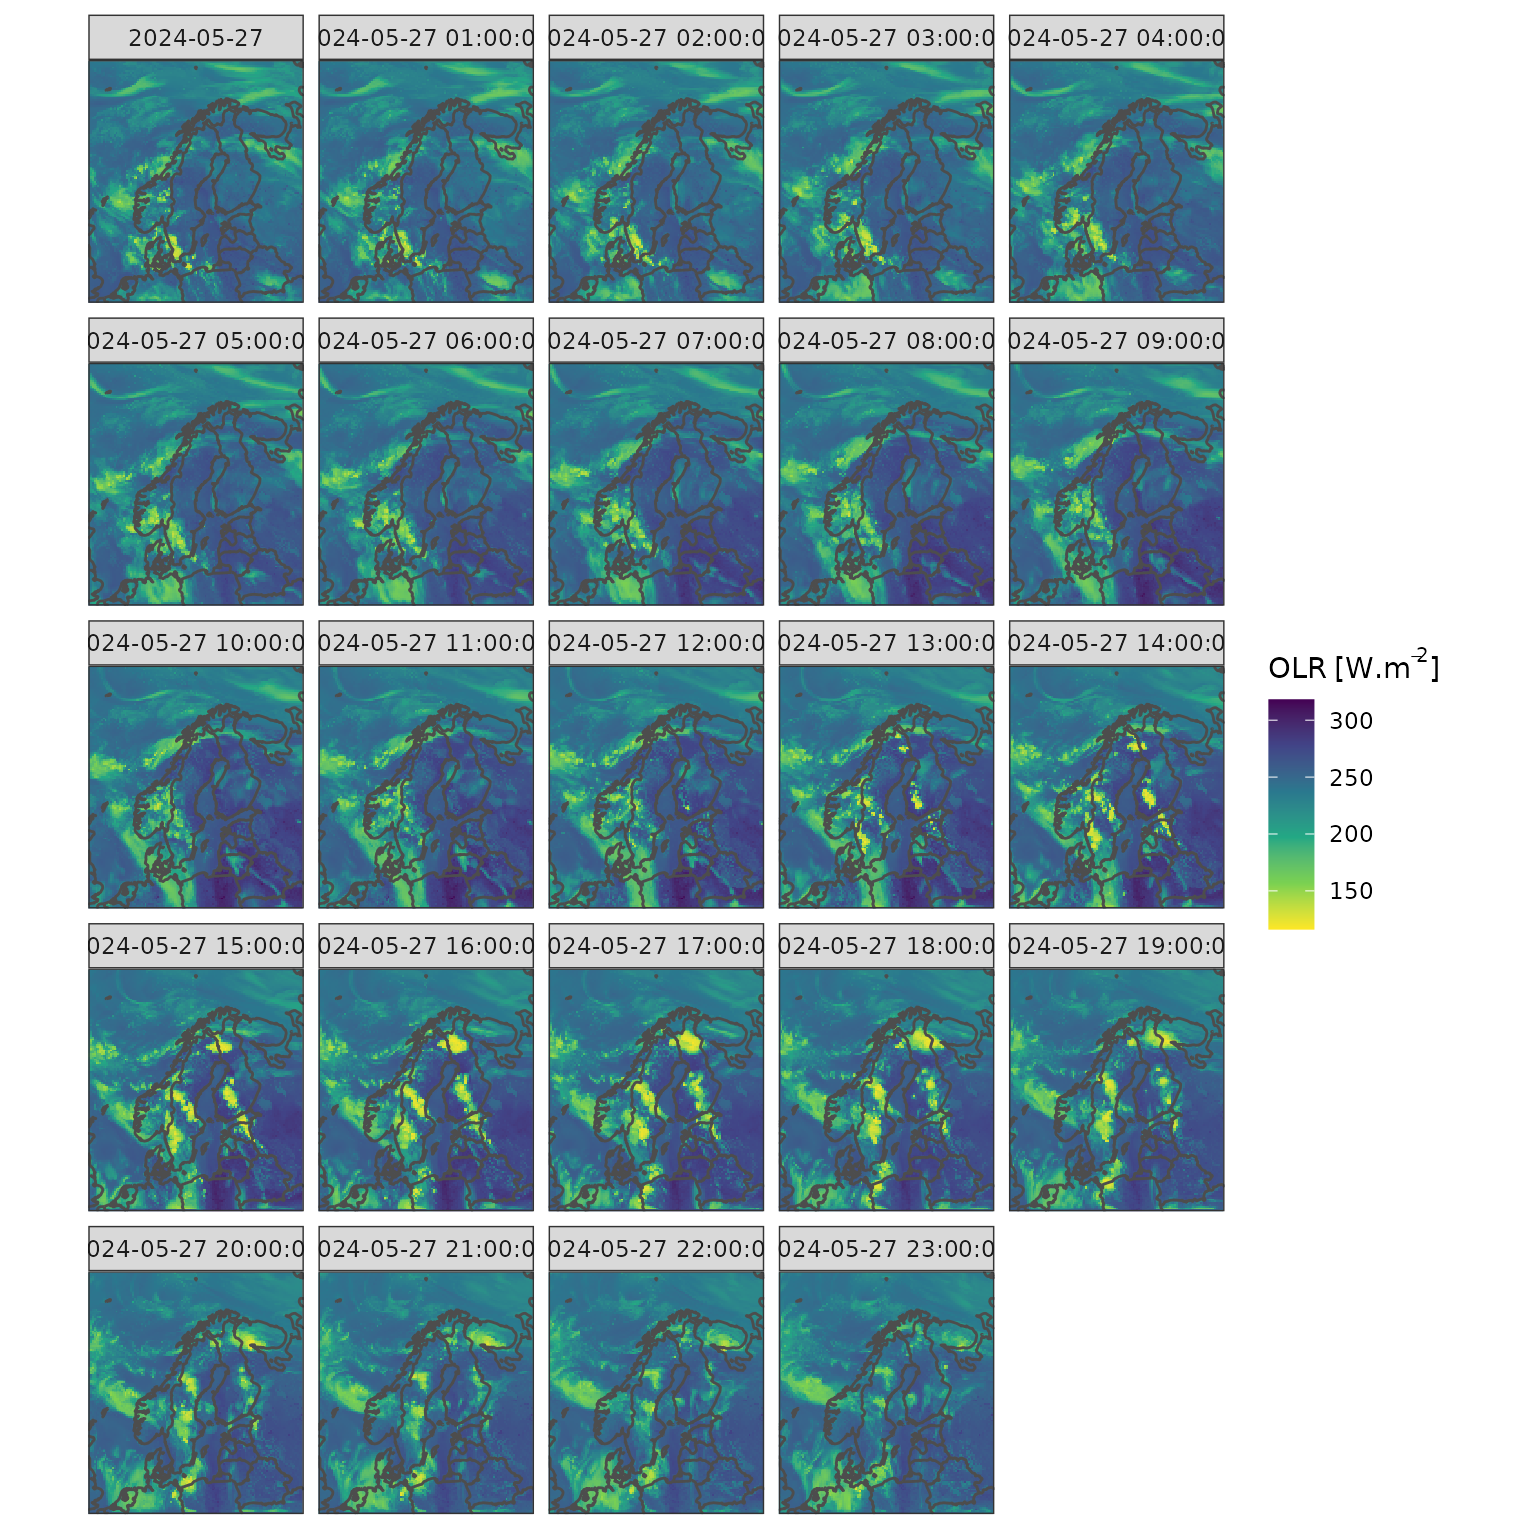
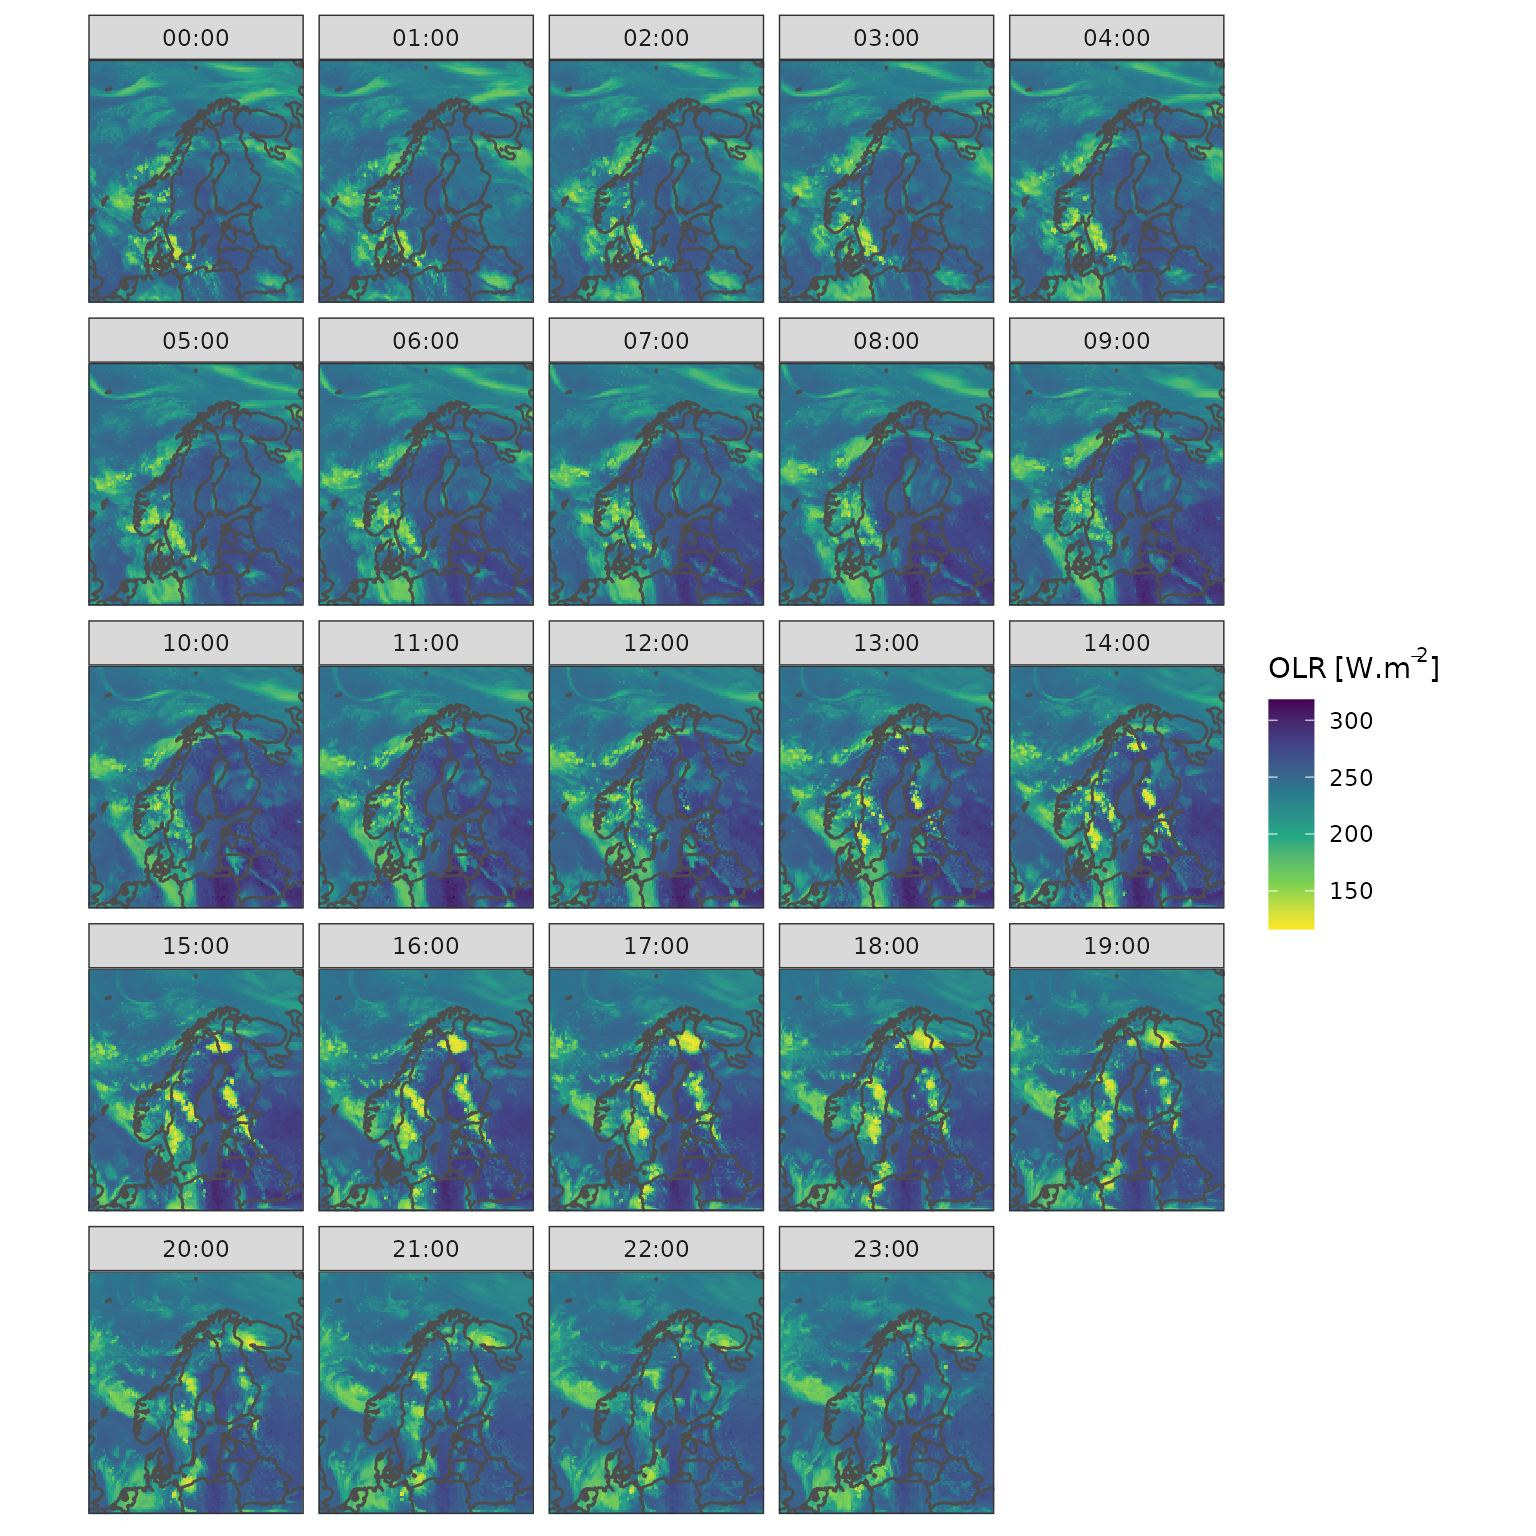
Rebuid pkgdown site

diff --git a/docs/articles/tracking_model_OLR.html b/docs/articles/tracking_model_OLR.html
@@ -157,7 +157,7 @@ time step.</p>
 <span>    upscale_factor <span class="op">=</span> <span class="fl">8</span>, upscale_method <span class="op">=</span> <span class="st">"downsample"</span></span>
 <span>  <span class="op">)</span> <span class="op">+</span> </span>
 <span>  <span class="fu"><a href="https://ggplot2.tidyverse.org/reference/geom_path.html" class="external-link">geom_path</a></span><span class="op">(</span><span class="fu"><a href="https://ggplot2.tidyverse.org/reference/aes.html" class="external-link">aes</a></span><span class="op">(</span><span class="va">x</span>, <span class="va">y</span><span class="op">)</span>, <span class="va">countries</span>, colour <span class="op">=</span> <span class="st">"grey30"</span><span class="op">)</span> <span class="op">+</span></span>
-<span>  <span class="fu"><a href="https://ggplot2.tidyverse.org/reference/facet_wrap.html" class="external-link">facet_wrap</a></span><span class="op">(</span><span class="op">~</span><span class="va">valid_dttm</span><span class="op">)</span> <span class="op">+</span></span>
+<span>  <span class="fu"><a href="https://ggplot2.tidyverse.org/reference/facet_wrap.html" class="external-link">facet_wrap</a></span><span class="op">(</span><span class="op">~</span><span class="fu"><a href="https://rdrr.io/r/base/format.html" class="external-link">format</a></span><span class="op">(</span><span class="va">valid_dttm</span>, <span class="st">"%H:%M"</span><span class="op">)</span><span class="op">)</span> <span class="op">+</span></span>
 <span>  <span class="fu"><a href="https://ggplot2.tidyverse.org/reference/scale_viridis.html" class="external-link">scale_fill_viridis_c</a></span><span class="op">(</span><span class="fu"><a href="https://rdrr.io/r/base/bquote.html" class="external-link">bquote</a></span><span class="op">(</span><span class="va">OLR</span><span class="op">~</span><span class="st">"["</span><span class="op">*</span><span class="va">W.m</span><span class="op">^</span><span class="op">{</span><span class="op">-</span><span class="fl">2</span><span class="op">}</span><span class="op">*</span><span class="st">"]"</span><span class="op">)</span>, direction <span class="op">=</span> <span class="op">-</span><span class="fl">1</span><span class="op">)</span> <span class="op">+</span> </span>
 <span>  <span class="fu"><a href="https://ggplot2.tidyverse.org/reference/coord_fixed.html" class="external-link">coord_equal</a></span><span class="op">(</span>expand <span class="op">=</span> <span class="cn">FALSE</span><span class="op">)</span> <span class="op">+</span></span>
 <span>  <span class="fu">theme_harp_map</span><span class="op">(</span><span class="op">)</span></span></code></pre></div>
@@ -173,7 +173,7 @@ adding limits to the colour scale.</p>
 <span>    upscale_factor <span class="op">=</span> <span class="fl">8</span>, upscale_method <span class="op">=</span> <span class="st">"downsample"</span></span>
 <span>  <span class="op">)</span> <span class="op">+</span> </span>
 <span>  <span class="fu"><a href="https://ggplot2.tidyverse.org/reference/geom_path.html" class="external-link">geom_path</a></span><span class="op">(</span><span class="fu"><a href="https://ggplot2.tidyverse.org/reference/aes.html" class="external-link">aes</a></span><span class="op">(</span><span class="va">x</span>, <span class="va">y</span><span class="op">)</span>, <span class="va">countries</span>, colour <span class="op">=</span> <span class="st">"grey30"</span><span class="op">)</span> <span class="op">+</span></span>
-<span>  <span class="fu"><a href="https://ggplot2.tidyverse.org/reference/facet_wrap.html" class="external-link">facet_wrap</a></span><span class="op">(</span><span class="op">~</span><span class="va">valid_dttm</span><span class="op">)</span> <span class="op">+</span></span>
+<span>  <span class="fu"><a href="https://ggplot2.tidyverse.org/reference/facet_wrap.html" class="external-link">facet_wrap</a></span><span class="op">(</span><span class="op">~</span><span class="fu"><a href="https://rdrr.io/r/base/format.html" class="external-link">format</a></span><span class="op">(</span><span class="va">valid_dttm</span>, <span class="st">"%H:%M"</span><span class="op">)</span><span class="op">)</span> <span class="op">+</span></span>
 <span>  <span class="fu"><a href="https://ggplot2.tidyverse.org/reference/scale_viridis.html" class="external-link">scale_fill_viridis_c</a></span><span class="op">(</span></span>
 <span>    <span class="fu"><a href="https://rdrr.io/r/base/bquote.html" class="external-link">bquote</a></span><span class="op">(</span><span class="va">OLR</span><span class="op">~</span><span class="st">"["</span><span class="op">*</span><span class="va">W.m</span><span class="op">^</span><span class="op">{</span><span class="op">-</span><span class="fl">2</span><span class="op">}</span><span class="op">*</span><span class="st">"]"</span><span class="op">)</span>, direction <span class="op">=</span> <span class="op">-</span><span class="fl">1</span>, </span>
 <span>    limits <span class="op">=</span> <span class="fu"><a href="https://rdrr.io/r/base/c.html" class="external-link">c</a></span><span class="op">(</span><span class="cn">NA</span>, <span class="fl">180</span><span class="op">)</span>, na.value <span class="op">=</span> <span class="st">"white"</span></span>
@@ -204,7 +204,7 @@ time.</p>
 <code class="sourceCode R"><span><span class="fu"><a href="https://ggplot2.tidyverse.org/reference/ggplot.html" class="external-link">ggplot</a></span><span class="op">(</span><span class="va">features</span>, <span class="fu"><a href="https://ggplot2.tidyverse.org/reference/aes.html" class="external-link">aes</a></span><span class="op">(</span><span class="va">projection_x_coordinate</span>, <span class="va">projection_y_coordinate</span><span class="op">)</span><span class="op">)</span> <span class="op">+</span></span>
 <span>  <span class="fu"><a href="https://ggplot2.tidyverse.org/reference/geom_path.html" class="external-link">geom_path</a></span><span class="op">(</span><span class="fu"><a href="https://ggplot2.tidyverse.org/reference/aes.html" class="external-link">aes</a></span><span class="op">(</span><span class="va">x</span>, <span class="va">y</span><span class="op">)</span>, <span class="va">countries</span>, colour <span class="op">=</span> <span class="st">"grey30"</span><span class="op">)</span> <span class="op">+</span> </span>
 <span>  <span class="fu"><a href="https://ggplot2.tidyverse.org/reference/geom_point.html" class="external-link">geom_point</a></span><span class="op">(</span><span class="fu"><a href="https://ggplot2.tidyverse.org/reference/aes.html" class="external-link">aes</a></span><span class="op">(</span>colour <span class="op">=</span> <span class="fu"><a href="https://rdrr.io/r/base/factor.html" class="external-link">factor</a></span><span class="op">(</span><span class="va">threshold_value</span><span class="op">)</span><span class="op">)</span><span class="op">)</span> <span class="op">+</span></span>
-<span>  <span class="fu"><a href="https://ggplot2.tidyverse.org/reference/facet_wrap.html" class="external-link">facet_wrap</a></span><span class="op">(</span><span class="op">~</span><span class="va">timestr</span><span class="op">)</span> <span class="op">+</span></span>
+<span>  <span class="fu"><a href="https://ggplot2.tidyverse.org/reference/facet_wrap.html" class="external-link">facet_wrap</a></span><span class="op">(</span><span class="op">~</span><span class="fu"><a href="https://rdrr.io/r/base/format.html" class="external-link">format</a></span><span class="op">(</span><span class="fu"><a href="https://rdrr.io/r/base/as.POSIXlt.html" class="external-link">as.POSIXct</a></span><span class="op">(</span><span class="va">timestr</span>, tz <span class="op">=</span> <span class="st">"UTC"</span><span class="op">)</span>, <span class="st">"%H:%M"</span><span class="op">)</span><span class="op">)</span> <span class="op">+</span></span>
 <span>  <span class="fu"><a href="https://ggplot2.tidyverse.org/reference/coord_fixed.html" class="external-link">coord_equal</a></span><span class="op">(</span>expand <span class="op">=</span> <span class="cn">FALSE</span><span class="op">)</span> <span class="op">+</span> </span>
 <span>  <span class="fu">theme_harp_map</span><span class="op">(</span><span class="op">)</span> <span class="op">+</span> </span>
 <span>  <span class="fu"><a href="https://ggplot2.tidyverse.org/reference/labs.html" class="external-link">labs</a></span><span class="op">(</span>colour <span class="op">=</span> <span class="fu"><a href="https://rdrr.io/r/base/bquote.html" class="external-link">bquote</a></span><span class="op">(</span><span class="fu">atop</span><span class="op">(</span><span class="va">OLR</span><span class="op">~</span><span class="va">Threshold</span>,<span class="st">"["</span><span class="op">*</span><span class="va">W.m</span><span class="op">^</span><span class="op">{</span><span class="op">-</span><span class="fl">2</span><span class="op">}</span><span class="op">*</span><span class="st">"]"</span><span class="op">)</span><span class="op">)</span><span class="op">)</span></span></code></pre></div>

diff --git a/docs/articles/tracking_seviri_brightness_temp.html b/docs/articles/tracking_seviri_brightness_temp.html
@@ -208,7 +208,7 @@ thresholds of 250, 240, 230 and 220 K.</p>
 <span><span class="fu"><a href="https://ggplot2.tidyverse.org/reference/ggplot.html" class="external-link">ggplot</a></span><span class="op">(</span><span class="va">features</span>, <span class="fu"><a href="https://ggplot2.tidyverse.org/reference/aes.html" class="external-link">aes</a></span><span class="op">(</span><span class="va">longitude</span>, <span class="va">latitude</span><span class="op">)</span><span class="op">)</span> <span class="op">+</span></span>
 <span>  <span class="fu"><a href="https://ggplot2.tidyverse.org/reference/geom_path.html" class="external-link">geom_path</a></span><span class="op">(</span><span class="fu"><a href="https://ggplot2.tidyverse.org/reference/aes.html" class="external-link">aes</a></span><span class="op">(</span><span class="va">x</span>, <span class="va">y</span><span class="op">)</span>, <span class="va">countries</span>, colour <span class="op">=</span> <span class="st">"grey30"</span><span class="op">)</span> <span class="op">+</span> </span>
 <span>  <span class="fu"><a href="https://ggplot2.tidyverse.org/reference/geom_point.html" class="external-link">geom_point</a></span><span class="op">(</span><span class="fu"><a href="https://ggplot2.tidyverse.org/reference/aes.html" class="external-link">aes</a></span><span class="op">(</span>colour <span class="op">=</span> <span class="fu"><a href="https://rdrr.io/r/base/factor.html" class="external-link">factor</a></span><span class="op">(</span><span class="va">threshold_value</span><span class="op">)</span><span class="op">)</span><span class="op">)</span> <span class="op">+</span></span>
-<span>  <span class="fu"><a href="https://ggplot2.tidyverse.org/reference/facet_wrap.html" class="external-link">facet_wrap</a></span><span class="op">(</span><span class="op">~</span><span class="va">timestr</span><span class="op">)</span> <span class="op">+</span></span>
+<span>  <span class="fu"><a href="https://ggplot2.tidyverse.org/reference/facet_wrap.html" class="external-link">facet_wrap</a></span><span class="op">(</span><span class="op">~</span><span class="fu"><a href="https://rdrr.io/r/base/format.html" class="external-link">format</a></span><span class="op">(</span><span class="fu"><a href="https://rdrr.io/r/base/as.POSIXlt.html" class="external-link">as.POSIXct</a></span><span class="op">(</span><span class="va">timestr</span>, tz <span class="op">=</span> <span class="st">"UTC"</span><span class="op">)</span>, <span class="st">"%H:%M"</span><span class="op">)</span><span class="op">)</span> <span class="op">+</span></span>
 <span>  <span class="fu"><a href="https://ggplot2.tidyverse.org/reference/coord_fixed.html" class="external-link">coord_equal</a></span><span class="op">(</span>expand <span class="op">=</span> <span class="cn">FALSE</span><span class="op">)</span> <span class="op">+</span> </span>
 <span>  <span class="fu">theme_harp_map</span><span class="op">(</span><span class="op">)</span> <span class="op">+</span> </span>
 <span>  <span class="fu"><a href="https://ggplot2.tidyverse.org/reference/labs.html" class="external-link">labs</a></span><span class="op">(</span>colour <span class="op">=</span> <span class="fu"><a href="https://rdrr.io/r/base/bquote.html" class="external-link">bquote</a></span><span class="op">(</span><span class="fu">atop</span><span class="op">(</span><span class="va">Brightness</span><span class="op">~</span><span class="va">Temp</span>, <span class="va">Threshold</span><span class="op">~</span><span class="st">"["</span><span class="op">*</span><span class="va">K</span><span class="op">*</span><span class="st">"]"</span><span class="op">)</span><span class="op">)</span><span class="op">)</span></span></code></pre></div>
